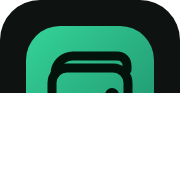
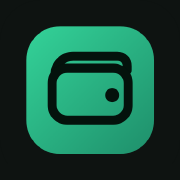
Иконка открывалась наполовину: перерисована и добавлены недостающие размеры
Причина: в apple-touch-icon.png были нарисованы только строки 0–94, а
строки 95–179 полностью прозрачные. iOS накладывает прозрачность на
подложку, поэтому на экране «Домой» была видна ровно верхняя половина
логотипа.

Что сделано:
- Все PNG перерисованы из icon.svg и проверены попиксельно: пустых строк
  нет, прозрачности нет вообще (iOS не любит альфу в иконке), поля вокруг
  рисунка одинаковые со всех сторон.
- Малые размеры получены уменьшением из проверенного 512×512: при рендере
  в маленьком окне картинка ужималась и низ обрезался — ровно та же
  ошибка, что и в исходном файле.
- Добавлены недостающие icon-192.png и icon-512.png: без них установка
  как приложения неполноценна.
- Добавлены отдельные maskable-иконки с безопасной зоной (рисунок внутри
  центральных 62 %). Раньше обычная иконка была помечена "any maskable",
  и под круглой маской у неё срезало края.
- Ссылки на иконки в index.html и список в манифесте приведены в порядок.
- Кэш service worker поднят до kopilka-v3, иначе телефон продолжал бы
  отдавать старую половинчатую иконку из кэша.

Заодно по результатам полного аудита: loanDue() возвращал NaN, если у
долга нет поля interest (старая запись или повреждённые данные) — теперь
приводится к числу, а миграция подхватывает старое имя поля rate, чтобы
процент не потерялся.

Проверено в headless Chromium: полный аудит 133/133 (разбор выписки,
целостность денег, все вкладки, окна, фильтры, периоды, быстрые ссылки,
[…]

diff --git a/index.html b/index.html
@@ -6,8 +6,10 @@
 <meta name="apple-mobile-web-app-title" content="Копилка">
 <meta name="theme-color" content="#0e1311">
 <link rel="manifest" href="./manifest.webmanifest">
-<link rel="apple-touch-icon" href="./apple-touch-icon.png">
+<link rel="apple-touch-icon" sizes="180x180" href="./apple-touch-icon.png">
 <link rel="icon" href="./icon.svg" type="image/svg+xml">
+<link rel="icon" type="image/png" sizes="192x192" href="./icon-192.png">
+<link rel="icon" type="image/png" sizes="512x512" href="./icon-512.png">
 <script src="./push-config.js"></script>
 <title>Копилка</title>
 <link rel="preconnect" href="https://fonts.googleapis.com">
@@ -460,6 +462,11 @@ function migrate(s){
   if(!st.notify)st.notify={weekly:true,statement:true,goal:true,budget:true,recurring:true,challenge:true};
   s.rules=s.rules||{}; s.rules.merchant=s.rules.merchant||{};
   s.rules.counterparty=s.rules.counterparty||{}; s.rules.category=s.rules.category||{};
+  for(const l of (Array.isArray(s.loans)?s.loans:[])){
+    if(!isFinite(+l.amount))l.amount=0;
+    if(!isFinite(+l.interest))l.interest=+l.rate||0;   /* старое имя поля — не теряем процент */
+    l.amount=+l.amount; l.interest=+l.interest;
+  }
   for(const k of ["transactions","jars","challenges","deposits","loans","recurring","statements","reports"])
     if(!Array.isArray(s[k]))s[k]=[];
   if(!s.budgets||typeof s.budgets!=="object")s.budgets={};
@@ -556,7 +563,12 @@ function migrate(s){
 function piggyDeposited(){return savedTotal();}
 function outstandingLoans(){return (S.loans||[]).filter(l=>!l.returned).reduce((a,l)=>a+l.amount,0);}
 function piggyAvailable(){return savedTotal()-outstandingLoans();}
-function loanDue(l){return Math.round(l.amount*(1+l.interest/100));}
+function loanDue(l){
+  const a=+(l&&l.amount)||0;
+  let i=+(l&&l.interest);
+  if(!isFinite(i)||i<0)i=0;          /* старые или повреждённые записи не должны давать NaN */
+  return Math.round(a*(1+i/100));
+}
 function isOverdue(l){return !l.returned && daysBetween(todayISO(),l.due)<0;}
 
 let S=load();

diff --git a/sw.js b/sw.js
@@ -2,8 +2,10 @@
    Задачи:
    1) push-уведомления (текст собирается ЛОКАЛЬНО из IndexedDB — данные не уходят на сервер);
    2) офлайн-доступ (network-first, чтобы обновления применялись сразу). */
-const CACHE="kopilka-v1";
-const ASSETS=["./","./index.html","./manifest.webmanifest","./icon.svg","./apple-touch-icon.png"];
+const CACHE="kopilka-v3";   /* поднято: старая половинчатая иконка должна вычиститься */
+const ASSETS=["./","./index.html","./manifest.webmanifest","./icon.svg",
+  "./apple-touch-icon.png","./icon-192.png","./icon-512.png",
+  "./icon-maskable-192.png","./icon-maskable-512.png"];
 
 self.addEventListener("install",(e)=>{
   e.waitUntil(caches.open(CACHE).then(c=>c.addAll(ASSETS).catch(()=>{})).then(()=>self.skipWaiting()));
